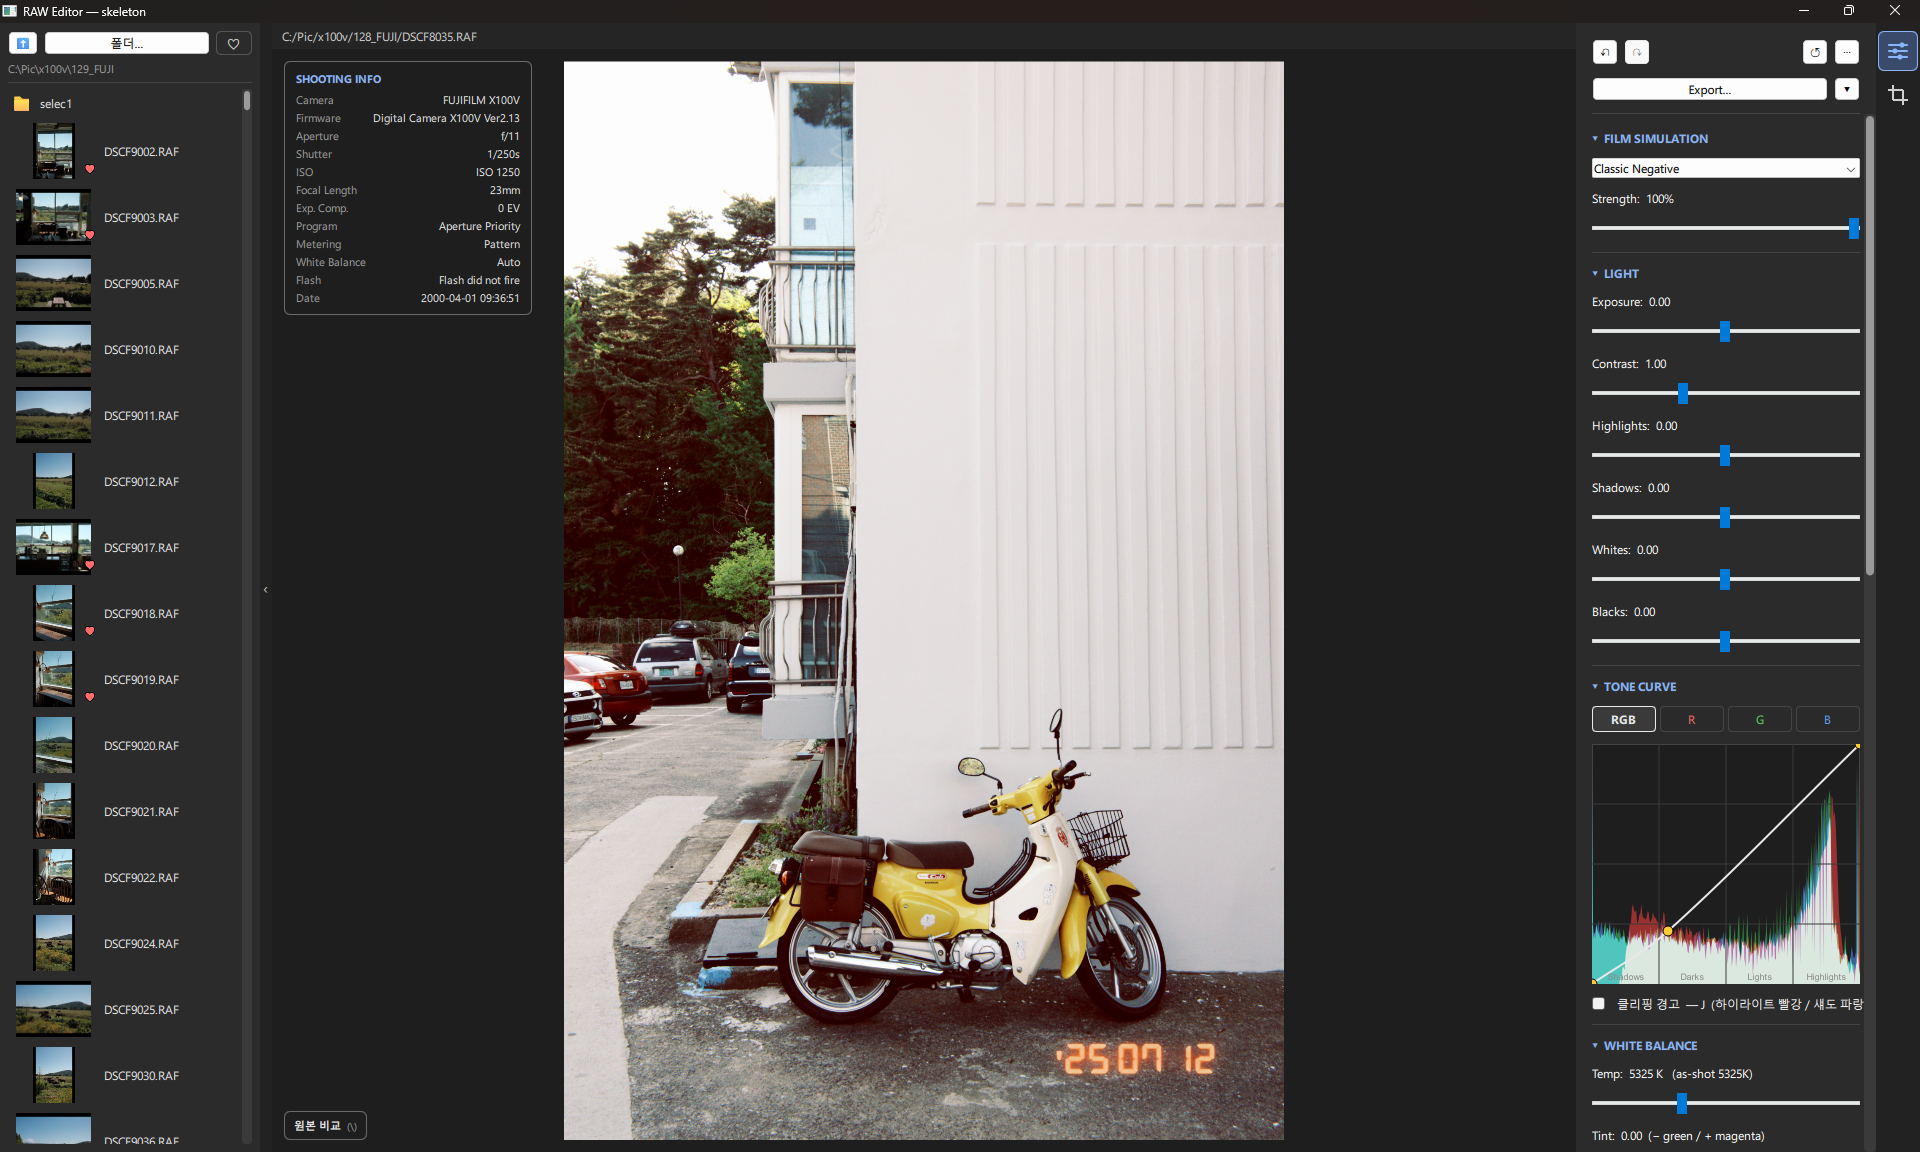
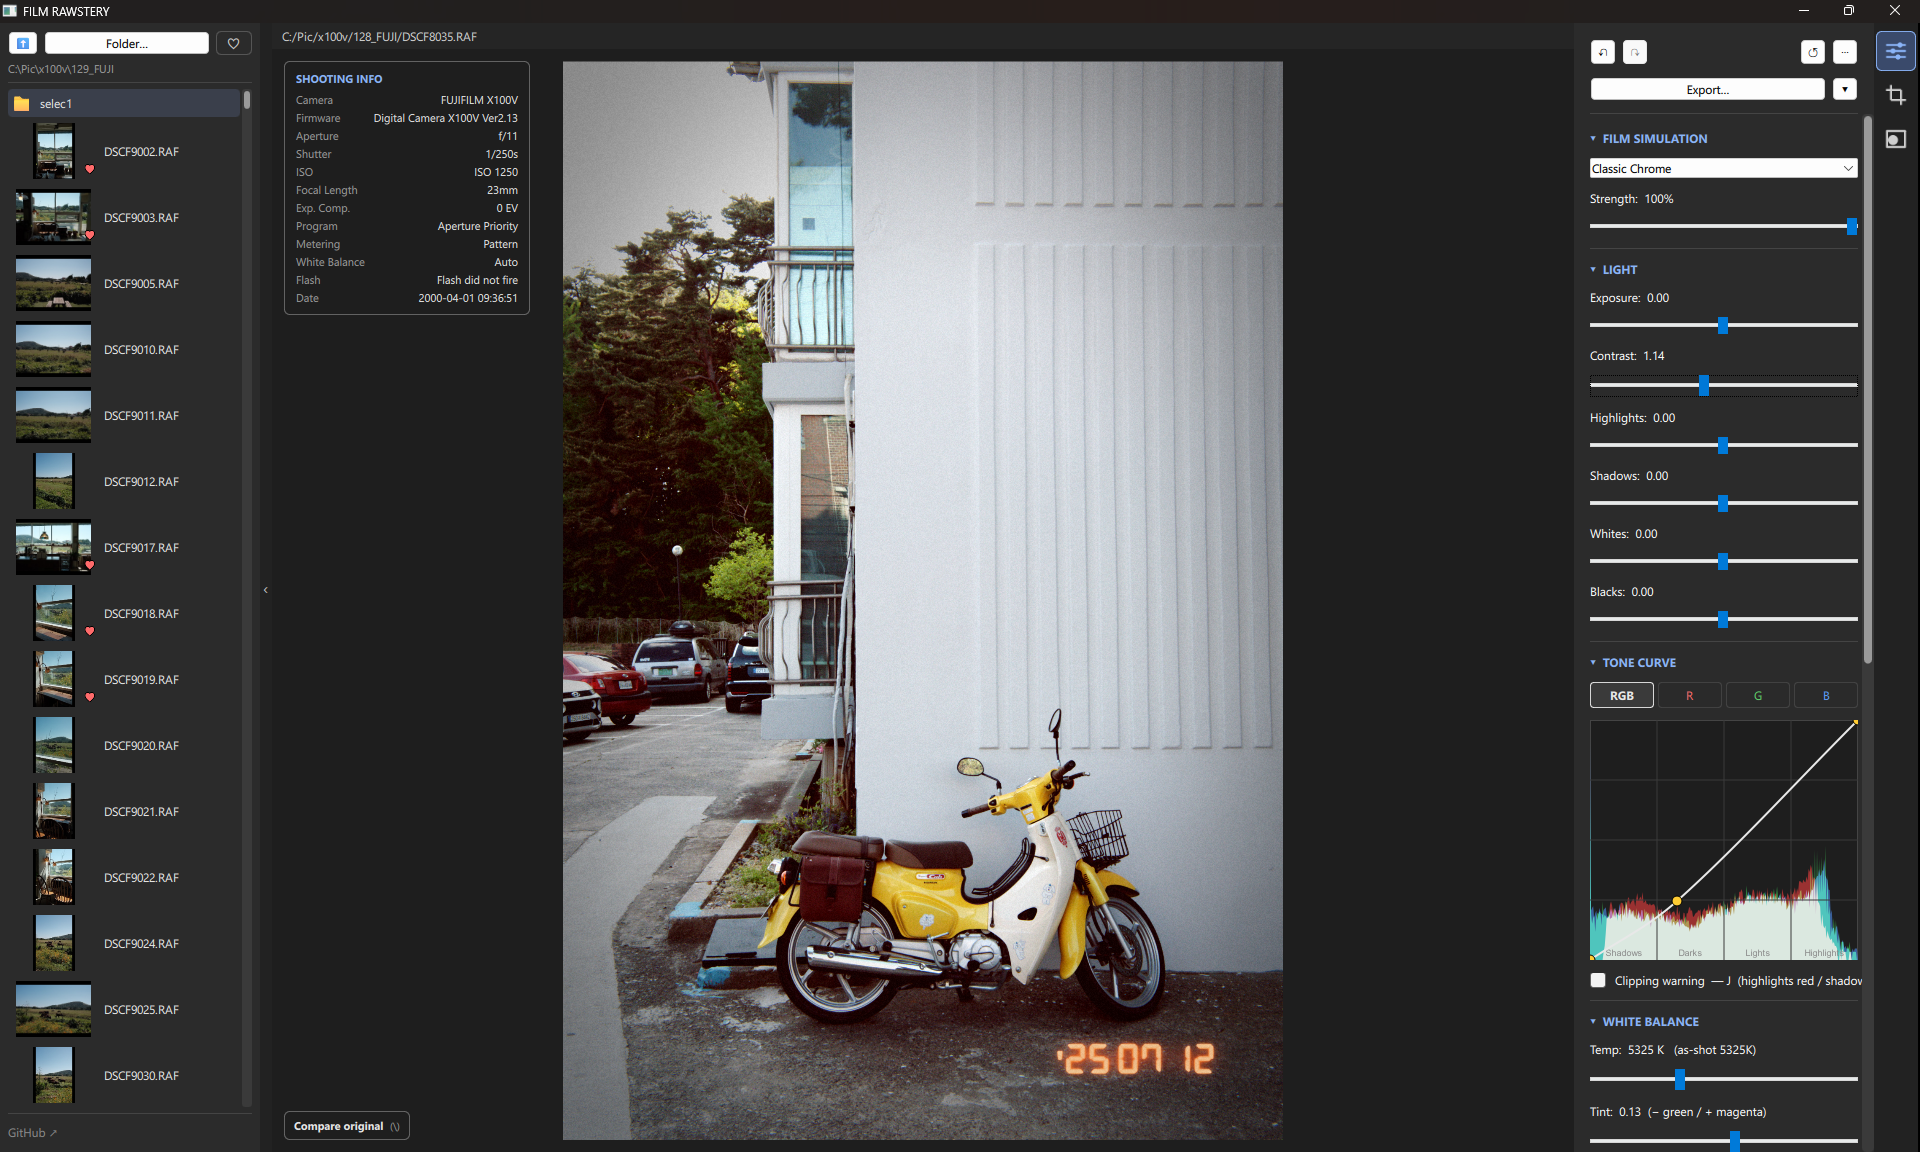
Document masking feature in README; add masking screenshot
- README: add Masking (local adjustments) section, onnxruntime/model-download
  requirement, sky_seg.py/coeffs.py in the structure table, segmentation-model
  credit, and the mask step in the pipeline diagram.
- Add screenshot2.png (masking panel) and embed both screenshots.

diff --git a/README.md b/README.md
@@ -10,7 +10,9 @@ A GPU-accelerated RAW developer and film-simulation editor for the **Fujifilm X1
 Edit interactively on a real-time, shader-driven preview, then export at full resolution through a numpy pipeline that mirrors the shader exactly — *what you see is what you get*.
 
 <p align="center">
-  <img src="screenshot.png" alt="Film Rawstery — file explorer, live preview, and develop panel" width="100%">
+  <img src="screenshot.png" alt="Film Rawstery — develop: file explorer, real-time preview, and develop panel" width="100%">
+  <br><br>
+  <img src="screenshot2.png" alt="Film Rawstery — masking: AI multi-class selection (people masked) with per-mask adjustments" width="100%">
 </p>
 
 > ⚠️ Tuned specifically for the Fuji X100V (X-Trans sensor + lens profile). Other cameras may decode but won't match the lens/color tuning.
@@ -29,6 +31,13 @@ Edit interactively on a real-time, shader-driven preview, then export at full re
 - **Detail** — texture, clarity, dehaze, and **sharpening** (amount / radius / detail / masking)
 - **Effects** — film grain, vignette
 - **Highlight reconstruction** — hue-aware desaturation that neutralizes clipped-highlight color casts (e.g. a fire core) while preserving saturated colored light sources (neon, signs)
+
+### Masking (local adjustments)
+- **AI selection** — ONNX semantic segmentation (SegFormer-B2 / ADE20K) detects regions to mask; the model auto-downloads on first use
+- **Multi-class composite** — tick any combination of **Sky / Vegetation / Building / Ground / Water / Mountain / Person**; the mask is their union, recomposed live from a single cached inference
+- **Edge-refined soft mask** — guided-filter refinement against image luminance for clean branch/edge boundaries, plus invert and a red mask overlay
+- **Per-mask develop** — Exposure / Temp / Tint / Highlights / Shadows / Texture / Clarity / Dehaze / Saturation, applied only to the masked region in both preview and export
+- Masks persist per-image (regenerated from the saved classes on reopen)
 
 ### Film Simulations
 12 Fujifilm looks as 3D LUTs: Provia, Velvia, Astia, Classic Chrome, Classic Negative, Nostalgic Neg, PRO Neg. Hi/Std, Eterna, Reala Ace, Bleach Bypass — with adjustable strength.
@@ -58,14 +67,14 @@ RAF ──rawpy──► camera-native proxy (≤2560px, headroom-encoded)
        QML ShaderEffect pipeline (GPU, proxy-resolution FBO → scaled to screen)
        headroom-decode → WB → cam→sRGB matrix → ×2^exposure → filmic
        → tone zones → texture/clarity/dehaze → sharpen → film-sim LUT
-       → vibrance/sat → HSL mixer → contrast → tone curve → vignette → grain
+       → vibrance/sat → HSL mixer → contrast → tone curve → mask local adjust → vignette → grain
                      │
    live preview (GPU)        Export: pipeline.py (full-res numpy, same steps)
 ```
 
 Key design decisions:
 - **Processing resolution ≠ display resolution** — the pipeline always renders at a fixed proxy resolution and scales to screen, so GPU load is independent of monitor size.
-- **Preview = Export parity** — the GLSL shaders (`shaders/adjust.frag`) and the numpy export (`pipeline.py`) implement the same steps, formulas, and coefficients.
+- **Preview = Export parity** — the GLSL shaders (`shaders/adjust.frag`) and the numpy export (`pipeline.py`) implement the same steps and formulas; strength coefficients live in a single `coeffs.py`, injected into the shader as uniforms so a change updates preview and export together.
 - **Color science first, look-matching second** — algorithms are physically/colorimetrically correct; strengths and curves are then tuned to feel like Adobe Lightroom.
 
 ---
@@ -73,8 +82,9 @@ Key design decisions:
 ## Requirements
 
 - Python 3.13 (3.11+ should work)
-- `PySide6`, `rawpy`, `numpy`, `scipy`, `exifread` (see [`requirements.txt`](requirements.txt))
+- `PySide6`, `rawpy`, `numpy`, `scipy`, `exifread`, `onnxruntime` (see [`requirements.txt`](requirements.txt))
 - A GPU/driver supporting the Qt RHI (OpenGL / Direct3D / Metal / Vulkan)
+- The masking model (SegFormer-B2 ONNX, ~105 MB) auto-downloads to `models/` on first use — needs an internet connection the first time (see [`models/README.md`](models/README.md))
 
 ## Install & Run
 
@@ -94,6 +104,8 @@ Open a `.RAF` from the left file explorer (double-click). Shaders auto-recompile
 | `main.py` | App entry point, controller, image providers (raw / lut / curve / stamp / thumb) |
 | `raw_loader.py` | RAF → display proxy (X-Trans-safe decode, headroom encoding, lens correction) |
 | `pipeline.py` | Full-resolution export — numpy reproduction of the shader pipeline |
+| `sky_seg.py` | ML masking engine — ONNX SegFormer multi-class segmentation → composite soft mask |
+| `coeffs.py` | Single source of truth for adjustment strength coefficients (shader uniforms + pipeline) |
 | `wb.py` | White balance (Kelvin/tint), cam→sRGB matrix, filmic curve, auto-exposure |
 | `lens.py` | X100V lens profile (distortion / vignetting / CA) |
 | `lut.py`, `make_luts.py` | `.cube` 3D LUT loading / baking |
@@ -110,6 +122,8 @@ Open a `.RAF` from the left file explorer (double-click). Shaders auto-recompile
 - **Color film-simulation LUTs** — derived from the *FujifilmCameraProfiles* project (sRGB `.cube`)
 - **B&W film-simulation LUTs** (ACROS / Monochrome / Sepia) — [Stuart Sowerby](https://blog.sowerby.me/fuji-film-simulation-profiles/) (Fuji X-Trans III, converted from `.3dl` to N=32 `.cube`)
 - **Date-back font** — [DSEG](https://github.com/keshikan/DSEG) by Keshikan (SIL Open Font License 1.1)
+- **Masking model** — SegFormer-B2 finetuned on ADE20K, ONNX export by [Xenova](https://huggingface.co/Xenova/segformer-b2-finetuned-ade-512-512) (transformers.js). ⚠️ Research-oriented license — verify before commercial use; see [`models/README.md`](models/README.md)
+- **ONNX inference** — [ONNX Runtime](https://onnxruntime.ai/)
 - **RAW decoding** — [rawpy](https://github.com/letmaik/rawpy) / LibRaw
 - **UI & GPU pipeline** — [Qt for Python (PySide6)](https://doc.qt.io/qtforpython/)
 - Plus [NumPy](https://numpy.org/), [SciPy](https://scipy.org/), and [ExifRead](https://github.com/ianare/exif-py)